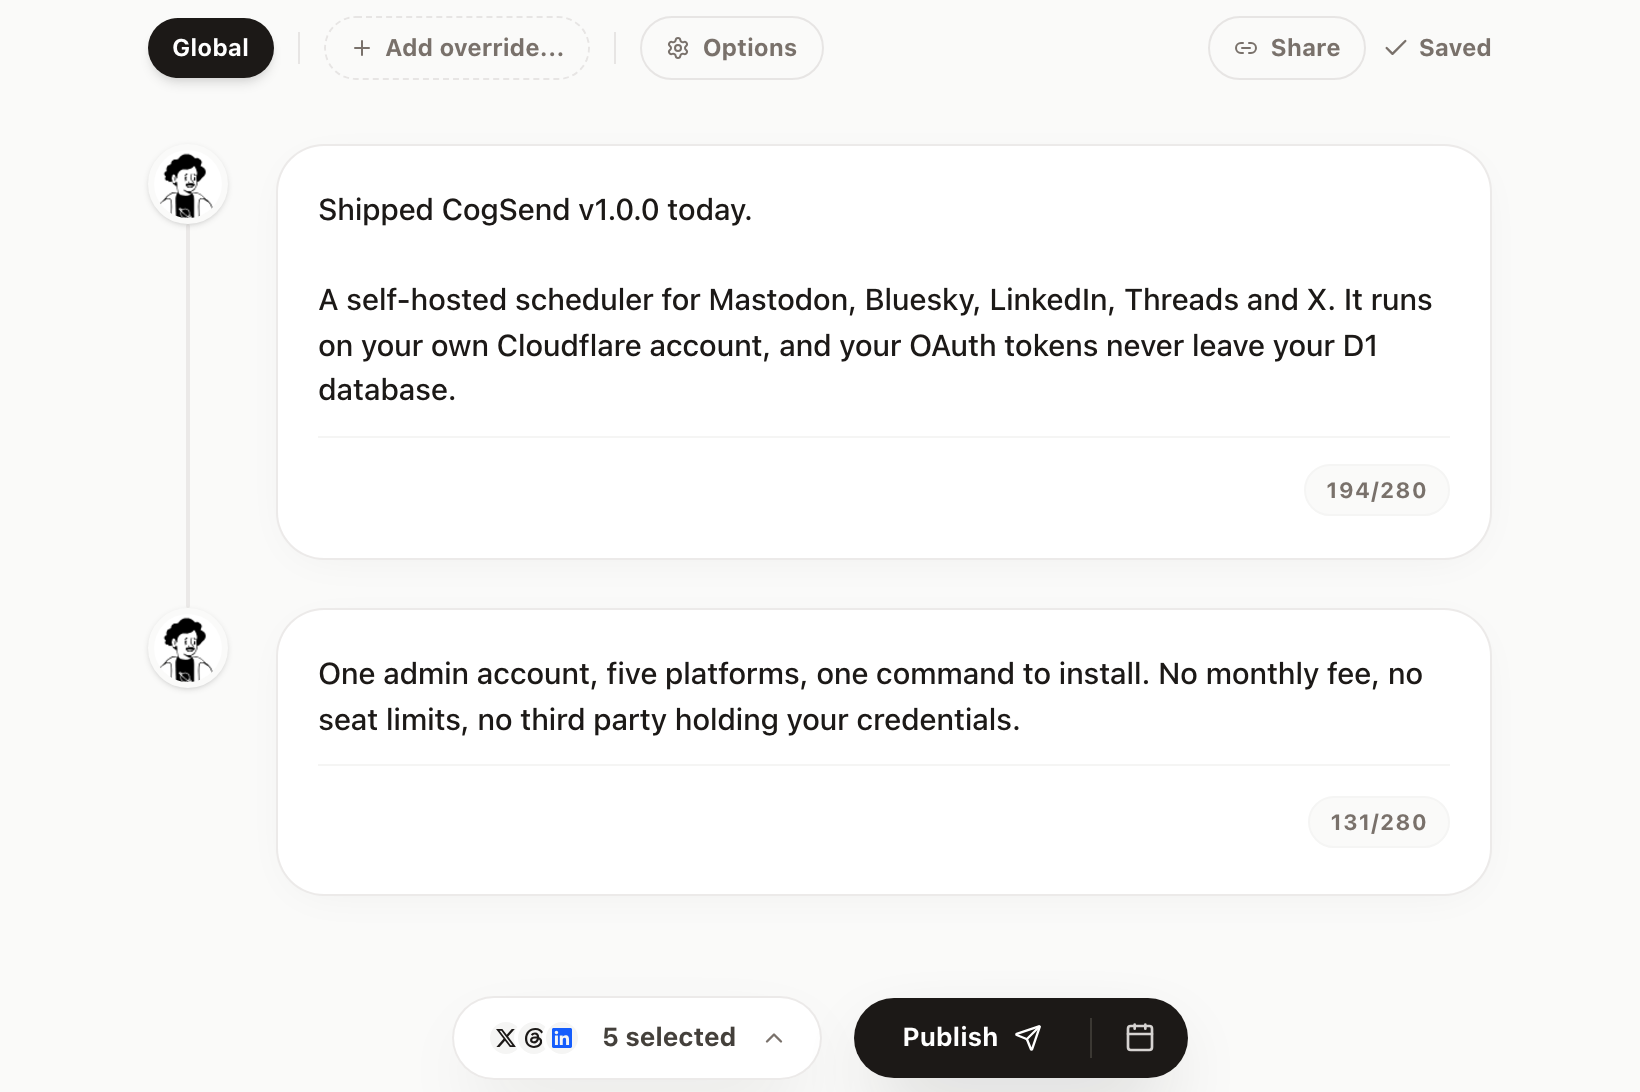
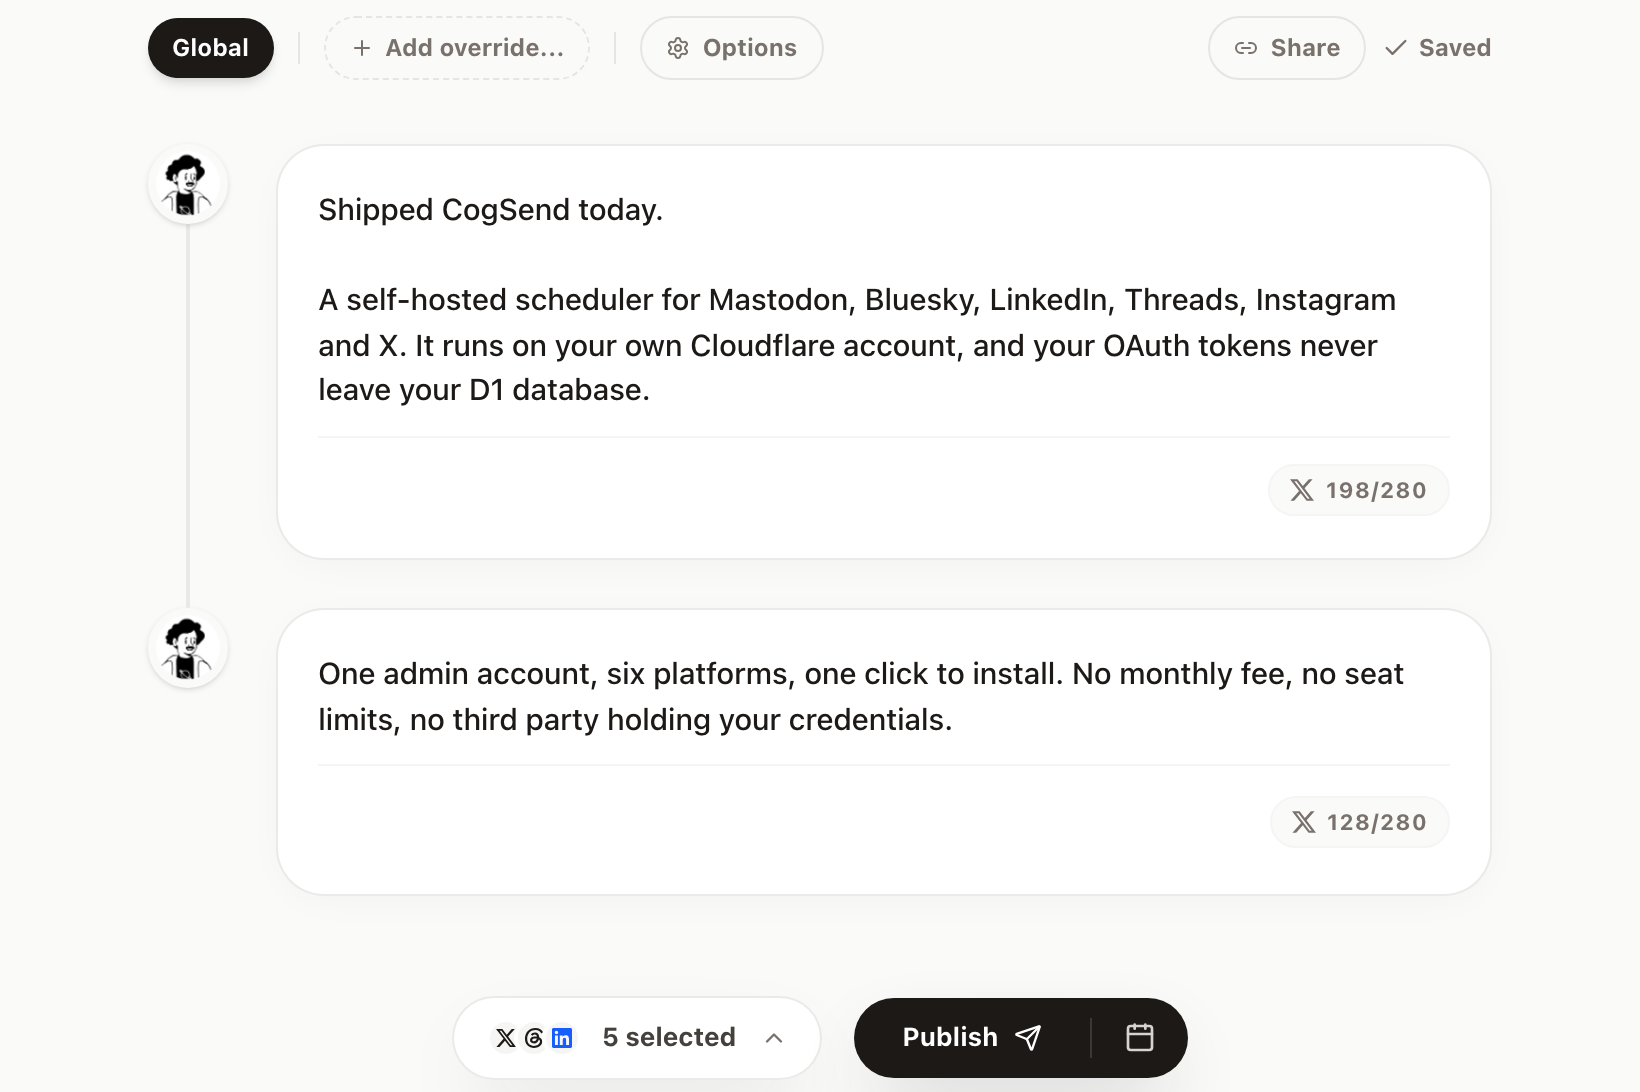
docs: retake the composer, Posts, Insights and Accounts screenshots for 1.31

diff --git a/src/docs/extras/posts.md b/src/docs/extras/posts.md
@@ -2,7 +2,7 @@
 <figure>
 	<picture>
 		<source srcset="/shots/insights.webp" type="image/webp" />
-		<img src="/shots/insights.png" alt="The Insights page on the 30-day range: 6 published, up 6 on the previous period; 5 scheduled, the next in five hours; last post 12 days ago on Bluesky. Below, a cumulative published line stepping up across the month against a flat previous period, and a failure summary reading 1 failed, X failed once, with a Review in Posts link." width="1760" height="1400" loading="lazy" />
+		<img src="/shots/insights.png" alt="The Insights page on the 30-day range: 34 published, up 28 on the previous period; 2 scheduled, the next in 5 hours; last post 24 hours ago on Bluesky. Below, a cumulative published line climbing across the month above a dotted previous-period line, a red dot on the day something failed, and a failure summary reading 1 failed, X rate limit once, with a Review in Posts link." width="1760" height="1400" loading="lazy" />
 	</picture>
 	<figcaption>Thirty days against the thirty before, with the failure summary under the chart.</figcaption>
 </figure>

diff --git a/src/docs/extras/scheduling.md b/src/docs/extras/scheduling.md
@@ -2,9 +2,9 @@
 <figure>
 	<picture>
 		<source srcset="/shots/posts.webp" type="image/webp" />
-		<img src="/shots/posts.png" alt="The Posts page: status filters with counts for All Posts, Scheduled, Published, Failed and Drafts, over scheduled cards showing platform icons, the post text, and a Will publish time with Edit Post, Reschedule and Cancel actions." width="1760" height="1280" loading="lazy" />
+		<img src="/shots/posts.png" alt="The Posts page: tabs with counts for All posts 23, Scheduled 2, Published 19, Failed 1 and Drafts 2, over two scheduled cards showing their platform icons, the post text, and Will publish in 26h and in 5h, with Edit post, Reschedule and Cancel." width="1760" height="1280" loading="lazy" />
 	</picture>
-	<figcaption>The queue a tick drains. Each time is shown in your own timezone with the relative difference beside it.</figcaption>
+	<figcaption>The queue a tick drains. Each time is shown in your own timezone, with how far away it is.</figcaption>
 </figure>
 <!-- docs:end -->
 

diff --git a/src/docs/extras/accounts.md b/src/docs/extras/accounts.md
@@ -2,9 +2,9 @@
 <figure>
 	<picture>
 		<source srcset="/shots/accounts.webp" type="image/webp" />
-		<img src="/shots/accounts.png" alt="The Connected Accounts page: X, Threads, LinkedIn, Mastodon and Bluesky, each with a green Connected badge, and a Connect new button above the list." width="1760" height="1013" loading="lazy" />
+		<img src="/shots/accounts.png" alt="The Accounts page: X, Threads, Instagram, LinkedIn, Mastodon and Bluesky, each with a Disconnect button and no badge, since all six are working. X shows its Long posts switch and Bluesky its Compact links switch, under a Connect account button." width="1760" height="1700" loading="lazy" />
 	</picture>
-	<figcaption>Connected Accounts is where a finished OAuth app shows up. Mastodon and Bluesky connect without one.</figcaption>
+	<figcaption>Accounts is where a finished OAuth app shows up. A working account has no badge; one that needs reconnecting is marked. Mastodon and Bluesky connect without an app.</figcaption>
 </figure>
 <!-- docs:end -->
 

diff --git a/src/docs/extras/composer.md b/src/docs/extras/composer.md
@@ -2,9 +2,9 @@
 <figure>
 	<picture>
 		<source srcset="/shots/composer.webp" type="image/webp" />
-		<img src="/shots/composer.png" alt="The CogSend composer: a two-post thread on a Global tab, the Options button, a character counter on each post, and a dock reading five selected next to a Publish button." width="1640" height="1092" loading="lazy" />
+		<img src="/shots/composer.png" alt="The CogSend composer: a two-post thread on the Global tab, with Add override, Options, Share and Saved above it. Each post has an X character counter, 198 of 280 and 128 of 280, and the dock reads 5 selected next to a Publish button." width="1640" height="1092" loading="lazy" />
 	</picture>
-	<figcaption>What a working instance looks like: one card per post, a tab per platform, and the destinations the post will go to.</figcaption>
+	<figcaption>What a working instance looks like: one card per post, a tab per platform, and the accounts the post goes to.</figcaption>
 </figure>
 <!-- docs:end -->
 
